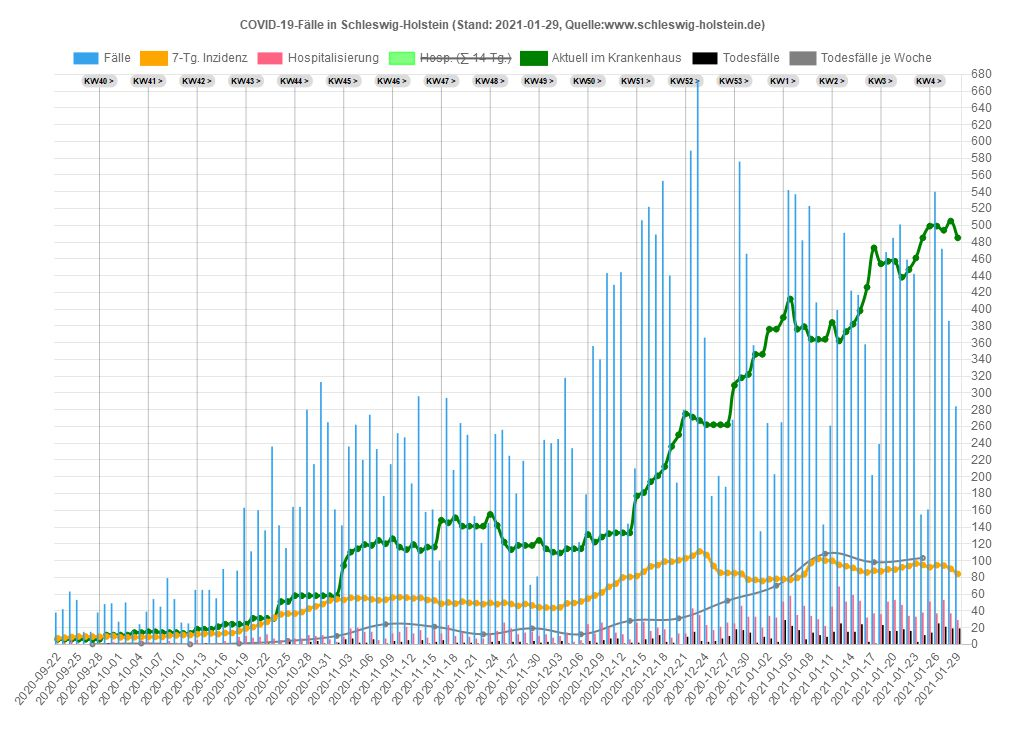
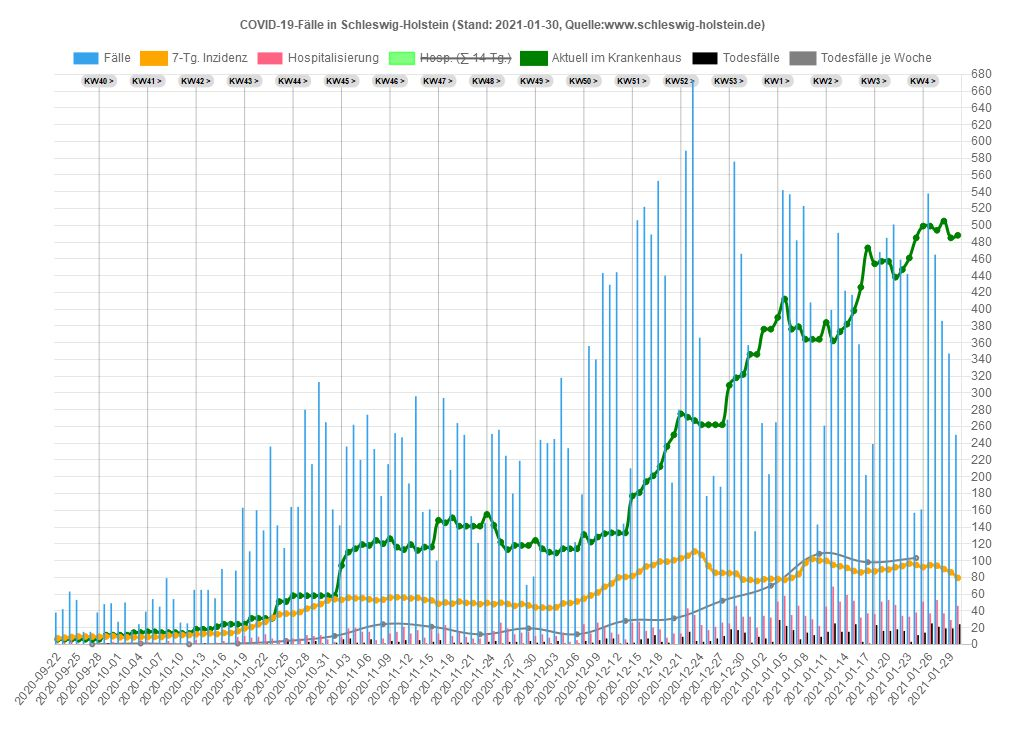
30.01.2021 22:00:57,57

Changed region(s): [[0.0625, 0.0931, 0.9375, 0.9622], [0.125, 0.0931, 0.1562, 0.1242]]

diff --git a/sh/Data_SH.js b/sh/Data_SH.js
@@ -1,20 +1,20 @@
 var chdata={
-labels: ["2020-09-22","2020-09-23","2020-09-24","2020-09-25","2020-09-26","2020-09-27","2020-09-28","2020-09-29","2020-09-30","2020-10-01","2020-10-02","2020-10-03","2020-10-04","2020-10-05","2020-10-06","2020-10-07","2020-10-08","2020-10-09","2020-10-10","2020-10-11","2020-10-12","2020-10-13","2020-10-14","2020-10-15","2020-10-16","2020-10-17","2020-10-18","2020-10-19","2020-10-20","2020-10-21","2020-10-22","2020-10-23","2020-10-24","2020-10-25","2020-10-26","2020-10-27","2020-10-28","2020-10-29","2020-10-30","2020-10-31","2020-11-01","2020-11-02","2020-11-03","2020-11-04","2020-11-05","2020-11-06","2020-11-07","2020-11-08","2020-11-09","2020-11-10","2020-11-11","2020-11-12","2020-11-13","2020-11-14","2020-11-15","2020-11-16","2020-11-17","2020-11-18","2020-11-19","2020-11-20","2020-11-21","2020-11-22","2020-11-23","2020-11-24","2020-11-25","2020-11-26","2020-11-27","2020-11-28","2020-11-29","2020-11-30","2020-12-01","2020-12-02","2020-12-03","2020-12-04","2020-12-05","2020-12-06","2020-12-07","2020-12-08","2020-12-09","2020-12-10","2020-12-11","2020-12-12","2020-12-13","2020-12-14","2020-12-15","2020-12-16","2020-12-17","2020-12-18","2020-12-19","2020-12-20","2020-12-21","2020-12-22","2020-12-23","2020-12-24","2020-12-25","2020-12-26","2020-12-27","2020-12-28","2020-12-29","2020-12-30","2020-12-31","2021-01-01","2021-01-02","2021-01-03","2021-01-04","2021-01-05","2021-01-06","2021-01-07","2021-01-08","2021-01-09","2021-01-10","2021-01-11","2021-01-12","2021-01-13","2021-01-14","2021-01-15","2021-01-16","2021-01-17","2021-01-18","2021-01-19","2021-01-20","2021-01-21","2021-01-22","2021-01-23","2021-01-24","2021-01-25","2021-01-26","2021-01-27","2021-01-28","2021-01-29"],
+labels: ["2020-09-22","2020-09-23","2020-09-24","2020-09-25","2020-09-26","2020-09-27","2020-09-28","2020-09-29","2020-09-30","2020-10-01","2020-10-02","2020-10-03","2020-10-04","2020-10-05","2020-10-06","2020-10-07","2020-10-08","2020-10-09","2020-10-10","2020-10-11","2020-10-12","2020-10-13","2020-10-14","2020-10-15","2020-10-16","2020-10-17","2020-10-18","2020-10-19","2020-10-20","2020-10-21","2020-10-22","2020-10-23","2020-10-24","2020-10-25","2020-10-26","2020-10-27","2020-10-28","2020-10-29","2020-10-30","2020-10-31","2020-11-01","2020-11-02","2020-11-03","2020-11-04","2020-11-05","2020-11-06","2020-11-07","2020-11-08","2020-11-09","2020-11-10","2020-11-11","2020-11-12","2020-11-13","2020-11-14","2020-11-15","2020-11-16","2020-11-17","2020-11-18","2020-11-19","2020-11-20","2020-11-21","2020-11-22","2020-11-23","2020-11-24","2020-11-25","2020-11-26","2020-11-27","2020-11-28","2020-11-29","2020-11-30","2020-12-01","2020-12-02","2020-12-03","2020-12-04","2020-12-05","2020-12-06","2020-12-07","2020-12-08","2020-12-09","2020-12-10","2020-12-11","2020-12-12","2020-12-13","2020-12-14","2020-12-15","2020-12-16","2020-12-17","2020-12-18","2020-12-19","2020-12-20","2020-12-21","2020-12-22","2020-12-23","2020-12-24","2020-12-25","2020-12-26","2020-12-27","2020-12-28","2020-12-29","2020-12-30","2020-12-31","2021-01-01","2021-01-02","2021-01-03","2021-01-04","2021-01-05","2021-01-06","2021-01-07","2021-01-08","2021-01-09","2021-01-10","2021-01-11","2021-01-12","2021-01-13","2021-01-14","2021-01-15","2021-01-16","2021-01-17","2021-01-18","2021-01-19","2021-01-20","2021-01-21","2021-01-22","2021-01-23","2021-01-24","2021-01-25","2021-01-26","2021-01-27","2021-01-28","2021-01-29","2021-01-30"],
 datasets: [
 {label: 'Fälle',
 type: 'bar',
 backgroundColor: window.chartColors.blue,
-data: [38,42,63,53,15,15,38,48,49,27,50,16,24,39,54,45,79,54,26,25,65,65,65,55,90,26,88,163,111,160,136,236,142,115,164,164,280,215,313,265,161,142,236,262,220,274,233,177,215,252,247,192,296,158,161,100,294,208,264,250,153,121,145,251,256,225,180,219,71,81,244,240,245,318,234,122,179,356,340,443,429,444,144,210,506,522,489,553,440,193,280,589,673,366,177,201,188,268,576,466,357,135,264,203,265,542,537,482,523,408,143,261,399,491,422,417,358,202,239,468,485,501,459,442,155,161,540,472,386,284]},
+data: [38,42,63,53,15,15,38,48,49,27,50,16,24,39,54,45,79,54,26,25,65,65,65,55,90,26,88,163,111,160,136,236,142,115,164,164,280,215,313,265,161,142,236,262,220,274,233,177,215,252,247,192,296,158,161,100,294,208,264,250,153,121,145,251,256,225,180,219,71,81,244,240,245,318,234,122,179,356,340,443,429,444,144,210,506,522,489,553,440,193,280,589,673,366,177,201,188,268,576,466,357,135,264,203,265,542,537,482,523,408,143,261,399,491,422,417,358,202,239,468,485,501,459,442,157,161,538,465,386,347,250]},
 {label: '7-Tg. Inzidenz',
 type: 'line',
 fill: false,
 pointBackgroundColor: 'orange',
 borderColor: 'orange',
-data: [7.2,7.9,8.7,9.4,9.3,9.2,9.1,9.4,9.7,8.4,8.3,8.4,8.7,8.7,8.9,8.8,10.6,10.7,11.1,11.1,12.0,12.4,13.1,12.2,13.5,13.5,15.6,19.0,20.6,23.9,26.7,31.7,35.7,36.6,36.6,38.5,42.6,45.3,48.0,52.2,53.8,53.0,55.5,54.9,55.1,53.7,52.6,53.2,55.7,56.2,55.7,54.8,55.5,52.9,52.4,48.4,49.9,48.5,51.0,49.4,49.2,47.9,49.4,47.9,49.6,48.2,45.8,48.1,46.4,44.2,43.9,43.4,44.1,48.8,49.3,51.1,54.5,58.3,61.8,68.6,72.4,79.7,80.4,81.5,86.6,92.9,94.5,98.8,98.6,100.3,102.7,105.6,110.8,106.6,93.6,85.4,85.2,84.8,84.3,77.2,76.9,75.5,77.6,78.1,78.0,76.9,79.3,83.6,97.0,101.9,99.9,99.7,94.8,93.2,91.2,87.5,85.8,87.8,87.1,89.4,89.2,91.9,93.4,96.3,94.7,92.0,94.5,94.0,90.1,84.0]},
+data: [7.2,7.9,8.7,9.4,9.3,9.2,9.1,9.4,9.7,8.4,8.3,8.4,8.7,8.7,8.9,8.8,10.6,10.7,11.1,11.1,12.0,12.4,13.1,12.2,13.5,13.5,15.6,19.0,20.6,23.9,26.7,31.7,35.7,36.6,36.6,38.5,42.6,45.3,48.0,52.2,53.8,53.0,55.5,54.9,55.1,53.7,52.6,53.2,55.7,56.2,55.7,54.8,55.5,52.9,52.4,48.4,49.9,48.5,51.0,49.4,49.2,47.9,49.4,47.9,49.6,48.2,45.8,48.1,46.4,44.2,43.9,43.4,44.1,48.8,49.3,51.1,54.5,58.3,61.8,68.6,72.4,79.7,80.4,81.5,86.6,92.9,94.5,98.8,98.6,100.3,102.7,105.6,110.8,106.6,93.6,85.4,85.2,84.8,84.3,77.2,76.9,75.5,77.6,78.1,78.0,76.9,79.3,83.6,97.0,101.9,99.9,99.7,94.8,93.2,91.2,87.5,85.8,87.8,87.1,89.4,89.2,91.9,93.4,96.3,94.7,92.1,94.5,93.8,89.8,86.0,79.3]},
 {label: 'Hospitalisierung',
 type: 'bar',
 backgroundColor: window.chartColors.red,
-data: [1,2,7,1,0,0,2,1,3,1,1,0,4,3,1,1,4,2,0,3,5,1,1,2,4,0,9,10,8,9,12,7,5,6,7,7,11,10,11,6,3,9,19,20,15,15,5,7,13,15,21,13,17,8,17,13,23,10,15,9,7,7,13,16,26,19,12,14,15,10,12,8,10,14,3,5,24,13,26,20,14,12,6,26,27,16,20,18,8,13,13,43,35,23,17,21,26,25,46,33,33,20,34,32,51,58,35,46,34,30,22,45,69,51,59,52,32,37,36,51,53,47,34,33,38,51,37,53,37,29]},
+data: [1,2,7,1,0,0,2,1,3,1,1,0,4,3,1,1,4,2,0,3,5,1,1,2,4,0,9,10,8,9,12,7,5,6,7,7,11,10,11,6,3,9,19,20,15,15,5,7,13,15,21,13,17,8,17,13,23,10,15,9,7,7,13,16,26,19,12,14,15,10,12,8,10,14,3,5,24,13,26,20,14,12,6,26,27,16,20,18,8,13,13,43,35,23,17,21,26,25,46,33,33,20,34,32,51,58,35,46,34,30,22,45,69,51,59,52,32,37,36,51,53,47,34,33,38,51,37,53,37,29,46]},
 {label: 'Hosp. (∑ 14-Tg.)',
 type: 'line',
 fill: false,
@@ -22,17 +22,17 @@ hidden: true,
 borderColor: 'rgba(0,255,0,0.5)',
 borderWidth: 1.5,
 pointRadius: 0,
-data: [12,12,20,22,22,22,22,23,23,21,22,21,24,26,26,25,22,23,23,26,29,29,27,28,31,31,36,43,50,58,66,71,76,79,81,87,97,105,112,118,112,111,122,133,136,144,144,145,151,159,169,172,178,180,194,198,202,192,192,186,188,188,188,189,194,200,195,201,199,196,185,183,178,183,179,177,188,185,185,186,188,186,177,193,208,216,226,230,235,243,232,262,271,274,277,286,306,305,324,341,354,356,382,401,439,454,454,477,494,503,499,519,542,560,586,618,616,621,606,599,617,618,618,621,637,643,611,613,591,568]},
+data: [12,12,20,22,22,22,22,23,23,21,22,21,24,26,26,25,22,23,23,26,29,29,27,28,31,31,36,43,50,58,66,71,76,79,81,87,97,105,112,118,112,111,122,133,136,144,144,145,151,159,169,172,178,180,194,198,202,192,192,186,188,188,188,189,194,200,195,201,199,196,185,183,178,183,179,177,188,185,185,186,188,186,177,193,208,216,226,230,235,243,232,262,271,274,277,286,306,305,324,341,354,356,382,401,439,454,454,477,494,503,499,519,542,560,586,618,616,621,606,599,617,618,618,621,637,643,611,613,591,568,582]},
 {label: 'Aktuell im Krankenhaus',
 type: 'line',
 fill: false,
 pointBackgroundColor: 'green',
 borderColor: 'green',
-data: [6,6,6,6,6,6,6,11,11,11,11,14,14,15,15,14,14,14,13,13,18,18,18,21,24,24,24,24,31,31,31,31,51,51,58,58,58,58,58,58,58,94,110,114,119,118,124,120,126,116,113,119,112,116,116,148,145,151,141,141,141,141,155,142,122,113,118,118,118,124,114,110,109,114,114,114,131,122,128,132,133,133,133,177,181,194,201,212,236,250,275,271,267,262,262,262,262,309,318,322,346,346,376,376,390,412,376,379,364,364,364,384,362,373,382,398,426,473,454,457,457,438,447,461,485,499,499,494,505,485]},
+data: [6,6,6,6,6,6,6,11,11,11,11,14,14,15,15,14,14,14,13,13,18,18,18,21,24,24,24,24,31,31,31,31,51,51,58,58,58,58,58,58,58,94,110,114,119,118,124,120,126,116,113,119,112,116,116,148,145,151,141,141,141,141,155,142,122,113,118,118,118,124,114,110,109,114,114,114,131,122,128,132,133,133,133,177,181,194,201,212,236,250,275,271,267,262,262,262,262,309,318,322,346,346,376,376,390,412,376,379,364,364,364,384,362,373,382,398,426,473,454,457,457,438,447,461,485,499,499,494,505,485,488]},
 {label: 'Todesfälle',
 type: 'bar',
 backgroundColor: 'black',
-data: [0,0,0,0,0,0,0,1,0,0,0,0,0,0,0,0,0,0,0,0,0,1,0,0,0,0,0,0,0,0,1,0,0,3,0,0,3,4,1,0,2,6,7,2,2,6,0,1,4,3,5,0,5,1,3,5,0,2,2,2,1,0,3,4,1,3,3,1,4,2,3,1,4,1,0,1,4,2,5,7,7,1,2,2,6,7,11,3,2,0,9,15,4,3,4,7,10,18,17,14,2,9,7,3,29,22,17,6,14,11,9,15,25,15,15,24,3,1,23,16,16,18,16,3,11,14,25,21,19,19]},
+data: [0,0,0,0,0,0,0,1,0,0,0,0,0,0,0,0,0,0,0,0,0,1,0,0,0,0,0,0,0,0,1,0,0,3,0,0,3,4,1,0,2,6,7,2,2,6,0,1,4,3,5,0,5,1,3,5,0,2,2,2,1,0,3,4,1,3,3,1,4,2,3,1,4,1,0,1,4,2,5,7,7,1,2,2,6,7,11,3,2,0,9,15,4,3,4,7,10,18,17,14,2,9,7,3,29,22,17,6,14,11,9,15,25,15,15,24,3,1,23,16,16,18,16,3,11,14,25,21,19,19,24]},
 {label: 'Todesfälle je Woche',
 type: 'line',
 fill: false,
@@ -41,6 +41,6 @@ borderColor: 'rgba(128,128,128,1)',
 borderWidth: 2,
 pointRadius: 2,
 yAxisID: 'first-y-axis',
-data: [,,,,,0,,,,,,,1,,,,,,,0,,,,,,,1,,,,,,,4,,,,,,,10,,,,,,,24,,,,,,,21,,,,,,,12,,,,,,,19,,,,,,,12,,,,,,,28,,,,,,,31,,,,,,,52,,,,,,,70,,,,,,,108,,,,,,,98,,,,,,,103,,,,,]},
+data: [,,,,,0,,,,,,,1,,,,,,,0,,,,,,,1,,,,,,,4,,,,,,,10,,,,,,,24,,,,,,,21,,,,,,,12,,,,,,,19,,,,,,,12,,,,,,,28,,,,,,,31,,,,,,,52,,,,,,,70,,,,,,,108,,,,,,,98,,,,,,,103,,,,,,]},
 ]};
 

diff --git a/sh/Kreis_PI.js b/sh/Kreis_PI.js
@@ -1,18 +1,18 @@
 var chdata={
-labels: ["2020-09-22","2020-09-23","2020-09-24","2020-09-25","2020-09-26","2020-09-27","2020-09-28","2020-09-29","2020-09-30","2020-10-01","2020-10-02","2020-10-03","2020-10-04","2020-10-05","2020-10-06","2020-10-07","2020-10-08","2020-10-09","2020-10-10","2020-10-11","2020-10-12","2020-10-13","2020-10-14","2020-10-15","2020-10-16","2020-10-17","2020-10-18","2020-10-19","2020-10-20","2020-10-21","2020-10-22","2020-10-23","2020-10-24","2020-10-25","2020-10-26","2020-10-27","2020-10-28","2020-10-29","2020-10-30","2020-10-31","2020-11-01","2020-11-02","2020-11-03","2020-11-04","2020-11-05","2020-11-06","2020-11-07","2020-11-08","2020-11-09","2020-11-10","2020-11-11","2020-11-12","2020-11-13","2020-11-14","2020-11-15","2020-11-16","2020-11-17","2020-11-18","2020-11-19","2020-11-20","2020-11-21","2020-11-22","2020-11-23","2020-11-24","2020-11-25","2020-11-26","2020-11-27","2020-11-28","2020-11-29","2020-11-30","2020-12-01","2020-12-02","2020-12-03","2020-12-04","2020-12-05","2020-12-06","2020-12-07","2020-12-08","2020-12-09","2020-12-10","2020-12-11","2020-12-12","2020-12-13","2020-12-14","2020-12-15","2020-12-16","2020-12-17","2020-12-18","2020-12-19","2020-12-20","2020-12-21","2020-12-22","2020-12-23","2020-12-24","2020-12-25","2020-12-26","2020-12-27","2020-12-28","2020-12-29","2020-12-30","2020-12-31","2021-01-01","2021-01-02","2021-01-03","2021-01-04","2021-01-05","2021-01-06","2021-01-07","2021-01-08","2021-01-09","2021-01-10","2021-01-11","2021-01-12","2021-01-13","2021-01-14","2021-01-15","2021-01-16","2021-01-17","2021-01-18","2021-01-19","2021-01-20","2021-01-21","2021-01-22","2021-01-23","2021-01-24","2021-01-25","2021-01-26","2021-01-27","2021-01-28","2021-01-29"],
+labels: ["2020-09-22","2020-09-23","2020-09-24","2020-09-25","2020-09-26","2020-09-27","2020-09-28","2020-09-29","2020-09-30","2020-10-01","2020-10-02","2020-10-03","2020-10-04","2020-10-05","2020-10-06","2020-10-07","2020-10-08","2020-10-09","2020-10-10","2020-10-11","2020-10-12","2020-10-13","2020-10-14","2020-10-15","2020-10-16","2020-10-17","2020-10-18","2020-10-19","2020-10-20","2020-10-21","2020-10-22","2020-10-23","2020-10-24","2020-10-25","2020-10-26","2020-10-27","2020-10-28","2020-10-29","2020-10-30","2020-10-31","2020-11-01","2020-11-02","2020-11-03","2020-11-04","2020-11-05","2020-11-06","2020-11-07","2020-11-08","2020-11-09","2020-11-10","2020-11-11","2020-11-12","2020-11-13","2020-11-14","2020-11-15","2020-11-16","2020-11-17","2020-11-18","2020-11-19","2020-11-20","2020-11-21","2020-11-22","2020-11-23","2020-11-24","2020-11-25","2020-11-26","2020-11-27","2020-11-28","2020-11-29","2020-11-30","2020-12-01","2020-12-02","2020-12-03","2020-12-04","2020-12-05","2020-12-06","2020-12-07","2020-12-08","2020-12-09","2020-12-10","2020-12-11","2020-12-12","2020-12-13","2020-12-14","2020-12-15","2020-12-16","2020-12-17","2020-12-18","2020-12-19","2020-12-20","2020-12-21","2020-12-22","2020-12-23","2020-12-24","2020-12-25","2020-12-26","2020-12-27","2020-12-28","2020-12-29","2020-12-30","2020-12-31","2021-01-01","2021-01-02","2021-01-03","2021-01-04","2021-01-05","2021-01-06","2021-01-07","2021-01-08","2021-01-09","2021-01-10","2021-01-11","2021-01-12","2021-01-13","2021-01-14","2021-01-15","2021-01-16","2021-01-17","2021-01-18","2021-01-19","2021-01-20","2021-01-21","2021-01-22","2021-01-23","2021-01-24","2021-01-25","2021-01-26","2021-01-27","2021-01-28","2021-01-29","2021-01-30"],
 datasets: [
 {label: 'Fälle',
 type: 'bar',
 backgroundColor: window.chartColors.blue,
 yAxisID: 'first-y-axis',
-data: [7,7,2,17,0,9,3,8,10,6,6,7,4,2,7,6,7,4,8,3,11,12,17,9,3,0,36,10,12,34,0,73,34,8,10,0,27,36,60,67,0,32,26,49,42,43,45,24,7,36,47,34,28,43,18,0,51,51,49,47,42,31,55,50,68,43,0,73,18,32,47,59,40,42,0,12,34,75,37,98,53,92,19,17,79,62,92,53,113,32,41,100,121,58,56,49,20,47,118,116,82,15,36,25,28,104,77,62,132,69,38,32,93,133,71,71,70,38,50,102,97,141,106,110,28,44,109,74,61,103]},
+data: [7,7,2,17,0,9,3,8,10,6,6,7,4,2,7,6,7,4,8,3,11,12,17,9,3,0,36,10,12,34,0,73,34,8,10,0,27,36,60,67,0,32,26,49,42,43,45,24,7,36,47,34,28,43,18,0,51,51,49,47,42,31,55,50,68,43,0,73,18,32,47,59,40,42,0,12,34,75,37,98,53,92,19,17,79,62,92,53,113,32,41,100,121,58,56,49,20,47,118,116,82,15,36,25,28,104,77,62,132,69,38,32,93,133,71,71,70,38,50,102,97,141,106,110,29,44,109,74,62,104,64]},
 {label: '7-Tg. Inzidenz',
 type: 'line',
 fill: false,
 pointBackgroundColor: 'orange',
 borderColor: 'orange',
 yAxisID: 'first-y-axis',
-data: [10.4,12.0,11.4,14.6,12.0213981,14.2,14.2,14.6,15.5,16.8,13.3,15.5,13.9,13.6,13.3,12.0,12.3,11.7,12.0,11.7,14.6,16.1,19.6,20.2,19.9,17.399392,27.8,27.5,27.5,32.9,30.0534952,52.2,63.0,54.1,54.1,50.3000604,48.1,59.5,55.4,65.8,63.2705163,70.2,78.5,85.4,87.3,81.9,75.0,82.6,74.7,77.8,77.2,74.7,69.9,69.3,67.4,65.1686317,69.9,71.2,75.9,81.9,81.6,85.7,103.1,102.8,108.2,106.3,91.425896,101.2,97.1,89.8,88.9,86.0,85.1,98.4,75.2919143,73.4,74.0,82.9,75.9,94.3,97.8,126.9,129.1,123.7,125.0,132.9,131.0,131.0,137.6,141.7,149.3,156.0,174.6,163.9,164.8,144.6,140.8,142.7,148.4,146.8,154.4,141.4,137.3,138.9,132.9,128.4,116.1,109.8,146.8,157.2,161.3,162.6,159.1,176.8,179.7,160.4,160.7,160.7,166.4,169.2,157.9,180.0,191.1,203.7,200.6,198.7,200.9,193.6,168.3,167.4]},
+data: [10.4,12.0,11.4,14.6,12.0213981,14.2,14.2,14.6,15.5,16.8,13.3,15.5,13.9,13.6,13.3,12.0,12.3,11.7,12.0,11.7,14.6,16.1,19.6,20.2,19.9,17.399392,27.8,27.5,27.5,32.9,30.0534952,52.2,63.0,54.1,54.1,50.3000604,48.1,59.5,55.4,65.8,63.2705163,70.2,78.5,85.4,87.3,81.9,75.0,82.6,74.7,77.8,77.2,74.7,69.9,69.3,67.4,65.1686317,69.9,71.2,75.9,81.9,81.6,85.7,103.1,102.8,108.2,106.3,91.425896,101.2,97.1,89.8,88.9,86.0,85.1,98.4,75.2919143,73.4,74.0,82.9,75.9,94.3,97.8,126.9,129.1,123.7,125.0,132.9,131.0,131.0,137.6,141.7,149.3,156.0,174.6,163.9,164.8,144.6,140.8,142.7,148.4,146.8,154.4,141.4,137.3,138.9,132.9,128.4,116.1,109.8,146.8,157.2,161.3,162.6,159.1,176.8,179.7,160.4,160.7,160.7,166.4,169.2,157.9,180.0,191.1,203.7,200.9,199.0,201.2,193.9,168.9,168.3,153.7]},
 {label: '7-Tg. Inz. veröff.',
 type: 'line',
 fill: false,
@@ -21,12 +21,12 @@ borderColor: 'rgba(255,165,0,0.5)',
 borderWidth: 2,
 pointRadius: 2,
 yAxisID: 'first-y-axis',
-data: [,,,,,,,,,,,,,,,,,,,,,,,,,,,,,,,,,,,,,,,,,,,,,,,,,,,,,,,,,,,,,,,,,,,,,,,,,,,86.0,87.9,97.8,89.8,107.6,109.8,127.5,129.7,124.3,125.0,113.3,129.4,112.6,83.5,77.5,72.1,155.6,169.6,164.8,168.0,149.3,144.3,143.9,135.7,146.2,152.2,140.8,136.7,137.3,132.9,128.4,115.2,107.6,142.0,157.2,161.3,152.5,159.1,177.2,179.4,160.7,159.4,162.3,164.8,168.0,153.4,178.7,188.9,202.1,199.0,183.2,194.2,191.1,168.3,167.4]},
+data: [,,,,,,,,,,,,,,,,,,,,,,,,,,,,,,,,,,,,,,,,,,,,,,,,,,,,,,,,,,,,,,,,,,,,,,,,,,,86.0,87.9,97.8,89.8,107.6,109.8,127.5,129.7,124.3,125.0,113.3,129.4,112.6,83.5,77.5,72.1,155.6,169.6,164.8,168.0,149.3,144.3,143.9,135.7,146.2,152.2,140.8,136.7,137.3,132.9,128.4,115.2,107.6,142.0,157.2,161.3,152.5,159.1,177.2,179.4,160.7,159.4,162.3,164.8,168.0,153.4,178.7,188.9,202.1,199.0,183.2,194.2,191.1,168.3,167.4,153.7]},
 {label: 'Hospitalisierung',
 type: 'bar',
 backgroundColor: window.chartColors.red,
 yAxisID: 'first-y-axis',
-data: [0,0,0,0,0,0,1,1,0,0,0,0,1,1,1,-1,2,0,0,0,0,0,0,0,0,0,3,2,0,1,0,5,0,1,1,0,1,2,5,2,0,2,1,2,5,3,0,0,3,4,2,3,3,1,1,0,6,1,2,2,2,0,1,2,6,4,0,6,4,4,3,3,2,5,0,2,4,1,6,7,4,1,0,9,5,0,7,0,0,0,0,25,8,6,2,3,3,5,15,9,4,6,10,3,4,8,13,13,6,3,4,0,26,12,8,7,6,2,2,13,7,11,12,2,8,0,16,12,10,7]},
+data: [0,0,0,0,0,0,1,1,0,0,0,0,1,1,1,-1,2,0,0,0,0,0,0,0,0,0,3,2,0,1,0,5,0,1,1,0,1,2,5,2,0,2,1,2,5,3,0,0,3,4,2,3,3,1,1,0,6,1,2,2,2,0,1,2,6,4,0,6,4,4,3,3,2,5,0,2,4,1,6,7,4,1,0,9,5,0,7,0,0,0,0,25,8,6,2,3,3,5,15,9,4,6,10,3,4,8,13,13,6,3,4,0,26,12,8,7,6,2,2,13,7,11,12,2,8,0,16,12,10,7,5]},
 {label: 'Hospitalisierung (∑ 14-Tg.)',
 type: 'line',
 pointRadius: 0,
@@ -34,12 +34,12 @@ fill: false,
 borderColor: 'rgba(0,128,0,0.5)',
 borderWidth: 2,
 yAxisID: 'first-y-axis',
-data: [2,2,2,2,2,2,3,4,3,2,2,2,3,4,5,4,6,6,6,6,5,4,4,4,4,4,6,7,6,8,6,11,11,12,13,13,14,16,21,23,20,20,21,22,27,25,25,24,26,30,31,32,30,29,30,28,33,32,29,28,30,30,28,26,30,31,28,33,36,40,37,39,39,42,40,42,45,44,44,47,51,46,42,47,49,46,51,46,46,44,40,64,66,65,63,65,68,64,74,83,80,86,96,99,103,86,91,98,102,102,103,98,109,112,116,117,113,112,110,115,109,107,113,112,116,116,106,106,108,108]},
+data: [2,2,2,2,2,2,3,4,3,2,2,2,3,4,5,4,6,6,6,6,5,4,4,4,4,4,6,7,6,8,6,11,11,12,13,13,14,16,21,23,20,20,21,22,27,25,25,24,26,30,31,32,30,29,30,28,33,32,29,28,30,30,28,26,30,31,28,33,36,40,37,39,39,42,40,42,45,44,44,47,51,46,42,47,49,46,51,46,46,44,40,64,66,65,63,65,68,64,74,83,80,86,96,99,103,86,91,98,102,102,103,98,109,112,116,117,113,112,110,115,109,107,113,112,116,116,106,106,108,108,107]},
 {label: 'Todesfälle',
 type: 'bar',
 backgroundColor: 'black',
 yAxisID: 'first-y-axis',
-data: [0,0,0,0,0,0,0,0,0,0,0,0,0,0,0,0,0,0,0,0,0,0,0,0,0,0,0,0,0,0,0,0,0,0,0,0,1,0,0,0,0,0,0,0,0,0,0,0,0,1,0,0,0,0,0,0,0,0,0,0,0,0,0,0,0,1,0,1,0,2,0,0,2,1,0,0,0,1,0,2,1,0,0,0,1,0,7,0,0,0,0,4,0,0,2,0,2,3,4,3,0,6,0,2,10,4,5,1,2,5,1,0,7,2,5,6,1,0,5,2,1,5,7,1,3,0,10,5,3,3]},
+data: [0,0,0,0,0,0,0,0,0,0,0,0,0,0,0,0,0,0,0,0,0,0,0,0,0,0,0,0,0,0,0,0,0,0,0,0,1,0,0,0,0,0,0,0,0,0,0,0,0,1,0,0,0,0,0,0,0,0,0,0,0,0,0,0,0,1,0,1,0,2,0,0,2,1,0,0,0,1,0,2,1,0,0,0,1,0,7,0,0,0,0,4,0,0,2,0,2,3,4,3,0,6,0,2,10,4,5,1,2,5,1,0,7,2,5,6,1,0,5,2,1,5,7,1,3,0,10,5,3,3,8]},
 {label: 'Todesfälle je Woche',
 type: 'line',
 fill: false,
@@ -48,6 +48,6 @@ borderColor: 'rgba(128,128,128,1)',
 borderWidth: 2,
 pointRadius: 2,
 yAxisID: 'first-y-axis',
-data: [,,,,,0,,,,,,,0,,,,,,,0,,,,,,,0,,,,,,,0,,,,,,,1,,,,,,,0,,,,,,,1,,,,,,,0,,,,,,,2,,,,,,,5,,,,,,,4,,,,,,,8,,,,,,,8,,,,,,,18,,,,,,,28,,,,,,,21,,,,,,,24,,,,,]},
+data: [,,,,,0,,,,,,,0,,,,,,,0,,,,,,,0,,,,,,,0,,,,,,,1,,,,,,,0,,,,,,,1,,,,,,,0,,,,,,,2,,,,,,,5,,,,,,,4,,,,,,,8,,,,,,,8,,,,,,,18,,,,,,,28,,,,,,,21,,,,,,,24,,,,,,]},
 ]};
 

diff --git a/sh/Data_SH_Alter.js b/sh/Data_SH_Alter.js
@@ -140,7 +140,8 @@ var chdata={
 				{x: '2021-01-26', y: 'Alle', v: 91.2605772, casesum: 2650},{x: '2021-01-26', y: '00-09', v: 46.7431697, casesum: 120},{x: '2021-01-26', y: '10-19', v: 72.4619303, casesum: 200},{x: '2021-01-26', y: '20-29', v: 118.139029, casesum: 378},{x: '2021-01-26', y: '30-39', v: 101.46122, casesum: 341},{x: '2021-01-26', y: '40-49', v: 97.0287086, casesum: 342},{x: '2021-01-26', y: '50-59', v: 81.5500978, casesum: 404},{x: '2021-01-26', y: '60-69', v: 58.8672187, casesum: 214},{x: '2021-01-26', y: '70-79', v: 66.569572, casesum: 197},{x: '2021-01-26', y: '80-89', v: 185.079567, casesum: 331},{x: '2021-01-26', y: '90+', v: 426.846197, casesum: 123},
 				{x: '2021-01-27', y: 'Alle', v: 92.7414092, casesum: 2693},{x: '2021-01-27', y: '00-09', v: 49.4698546, casesum: 127},{x: '2021-01-27', y: '10-19', v: 75.3604075, casesum: 208},{x: '2021-01-27', y: '20-29', v: 110.950675, casesum: 355},{x: '2021-01-27', y: '30-39', v: 102.353841, casesum: 344},{x: '2021-01-27', y: '40-49', v: 96.4612892, casesum: 340},{x: '2021-01-27', y: '50-59', v: 80.1371011, casesum: 397},{x: '2021-01-27', y: '60-69', v: 62.1681842, casesum: 226},{x: '2021-01-27', y: '70-79', v: 73.3279041, casesum: 217},{x: '2021-01-27', y: '80-89', v: 197.380928, casesum: 353},{x: '2021-01-27', y: '90+', v: 437.257079, casesum: 126},
 				{x: '2021-01-28', y: 'Alle', v: 87.9889716, casesum: 2555},{x: '2021-01-28', y: '00-09', v: 50.6384338, casesum: 130},{x: '2021-01-28', y: '10-19', v: 72.4619303, casesum: 200},{x: '2021-01-28', y: '20-29', v: 106.262619, casesum: 340},{x: '2021-01-28', y: '30-39', v: 90.4522314, casesum: 304},{x: '2021-01-28', y: '40-49', v: 87.6662893, casesum: 309},{x: '2021-01-28', y: '50-59', v: 77.5129642, casesum: 384},{x: '2021-01-28', y: '60-69', v: 59.4173796, casesum: 216},{x: '2021-01-28', y: '70-79', v: 69.6108214, casesum: 206},{x: '2021-01-28', y: '80-89', v: 186.757026, casesum: 334},{x: '2021-01-28', y: '90+', v: 458.078845, casesum: 132},
-				{x: '2021-01-29', y: 'Alle', v: 84.1319208, casesum: 2443},{x: '2021-01-29', y: '00-09', v: 45.9641168, casesum: 118},{x: '2021-01-29', y: '10-19', v: 71.0126917, casesum: 196},{x: '2021-01-29', y: '20-29', v: 100.636951, casesum: 322},{x: '2021-01-29', y: '30-39', v: 89.8571509, casesum: 302},{x: '2021-01-29', y: '40-49', v: 89.9359667, casesum: 317},{x: '2021-01-29', y: '50-59', v: 77.5129642, casesum: 384},{x: '2021-01-29', y: '60-69', v: 53.9157704, casesum: 196},{x: '2021-01-29', y: '70-79', v: 63.8662391, casesum: 189},{x: '2021-01-29', y: '80-89', v: 169.982443, casesum: 304},{x: '2021-01-29', y: '90+', v: 399.083842, casesum: 115}
+				{x: '2021-01-29', y: 'Alle', v: 84.1319208, casesum: 2443},{x: '2021-01-29', y: '00-09', v: 45.9641168, casesum: 118},{x: '2021-01-29', y: '10-19', v: 71.0126917, casesum: 196},{x: '2021-01-29', y: '20-29', v: 100.636951, casesum: 322},{x: '2021-01-29', y: '30-39', v: 89.8571509, casesum: 302},{x: '2021-01-29', y: '40-49', v: 89.9359667, casesum: 317},{x: '2021-01-29', y: '50-59', v: 77.5129642, casesum: 384},{x: '2021-01-29', y: '60-69', v: 53.9157704, casesum: 196},{x: '2021-01-29', y: '70-79', v: 63.8662391, casesum: 189},{x: '2021-01-29', y: '80-89', v: 169.982443, casesum: 304},{x: '2021-01-29', y: '90+', v: 399.083842, casesum: 115},
+				{x: '2021-01-30', y: 'Alle', v: 78.4496584, casesum: 2278},{x: '2021-01-30', y: '00-09', v: 42.8479055, casesum: 110},{x: '2021-01-30', y: '10-19', v: 63.0418794, casesum: 174},{x: '2021-01-30', y: '20-29', v: 100.324414, casesum: 321},{x: '2021-01-30', y: '30-39', v: 80.9309439, casesum: 272},{x: '2021-01-30', y: '40-49', v: 82.5595152, casesum: 291},{x: '2021-01-30', y: '50-59', v: 70.8516939, casesum: 351},{x: '2021-01-30', y: '60-69', v: 51.7151267, casesum: 188},{x: '2021-01-30', y: '70-79', v: 62.176656, casesum: 184},{x: '2021-01-30', y: '80-89', v: 155.444471, casesum: 278},{x: '2021-01-30', y: '90+', v: 378.262077, casesum: 109}
 			],
 			backgroundColor: function(context) {
 				return inzColor(context.dataset.data[context.dataIndex].v)
@@ -148,7 +149,7 @@ var chdata={
 			width: function(context) {
 				const a = context.chart.chartArea
 				if (!a) return 0
-				return (a.right - a.left) / 137.5
+				return (a.right - a.left) / 138.5
 			},
 			height: function(context) {
 				const a = context.chart.chartArea
@@ -160,7 +161,7 @@ var chdata={
 	options: {
 		legend: { display: false },
 		scales: {
-			xAxes: [{type: 'category', labels: ["2020-09-15","2020-09-16","2020-09-17","2020-09-18","2020-09-19","2020-09-20","2020-09-21","2020-09-22","2020-09-23","2020-09-24","2020-09-25","2020-09-26","2020-09-27","2020-09-28","2020-09-29","2020-09-30","2020-10-01","2020-10-02","2020-10-03","2020-10-04","2020-10-05","2020-10-06","2020-10-07","2020-10-08","2020-10-09","2020-10-10","2020-10-11","2020-10-12","2020-10-13","2020-10-14","2020-10-15","2020-10-16","2020-10-17","2020-10-18","2020-10-19","2020-10-20","2020-10-21","2020-10-22","2020-10-23","2020-10-24","2020-10-25","2020-10-26","2020-10-27","2020-10-28","2020-10-29","2020-10-30","2020-10-31","2020-11-01","2020-11-02","2020-11-03","2020-11-04","2020-11-05","2020-11-06","2020-11-07","2020-11-08","2020-11-09","2020-11-10","2020-11-11","2020-11-12","2020-11-13","2020-11-14","2020-11-15","2020-11-16","2020-11-17","2020-11-18","2020-11-19","2020-11-20","2020-11-21","2020-11-22","2020-11-23","2020-11-24","2020-11-25","2020-11-26","2020-11-27","2020-11-28","2020-11-29","2020-11-30","2020-12-01","2020-12-02","2020-12-03","2020-12-04","2020-12-05","2020-12-06","2020-12-07","2020-12-08","2020-12-09","2020-12-10","2020-12-11","2020-12-12","2020-12-13","2020-12-14","2020-12-15","2020-12-16","2020-12-17","2020-12-18","2020-12-19","2020-12-20","2020-12-21","2020-12-22","2020-12-23","2020-12-24","2020-12-25","2020-12-26","2020-12-27","2020-12-28","2020-12-29","2020-12-30","2020-12-31","2021-01-01","2021-01-02","2021-01-03","2021-01-04","2021-01-05","2021-01-06","2021-01-07","2021-01-08","2021-01-09","2021-01-10","2021-01-11","2021-01-12","2021-01-13","2021-01-14","2021-01-15","2021-01-16","2021-01-17","2021-01-18","2021-01-19","2021-01-20","2021-01-21","2021-01-22","2021-01-23","2021-01-24","2021-01-25","2021-01-26","2021-01-27","2021-01-28","2021-01-29",], ticks: {display: true},gridlines:{display:false}}],
+			xAxes: [{type: 'category', labels: ["2020-09-15","2020-09-16","2020-09-17","2020-09-18","2020-09-19","2020-09-20","2020-09-21","2020-09-22","2020-09-23","2020-09-24","2020-09-25","2020-09-26","2020-09-27","2020-09-28","2020-09-29","2020-09-30","2020-10-01","2020-10-02","2020-10-03","2020-10-04","2020-10-05","2020-10-06","2020-10-07","2020-10-08","2020-10-09","2020-10-10","2020-10-11","2020-10-12","2020-10-13","2020-10-14","2020-10-15","2020-10-16","2020-10-17","2020-10-18","2020-10-19","2020-10-20","2020-10-21","2020-10-22","2020-10-23","2020-10-24","2020-10-25","2020-10-26","2020-10-27","2020-10-28","2020-10-29","2020-10-30","2020-10-31","2020-11-01","2020-11-02","2020-11-03","2020-11-04","2020-11-05","2020-11-06","2020-11-07","2020-11-08","2020-11-09","2020-11-10","2020-11-11","2020-11-12","2020-11-13","2020-11-14","2020-11-15","2020-11-16","2020-11-17","2020-11-18","2020-11-19","2020-11-20","2020-11-21","2020-11-22","2020-11-23","2020-11-24","2020-11-25","2020-11-26","2020-11-27","2020-11-28","2020-11-29","2020-11-30","2020-12-01","2020-12-02","2020-12-03","2020-12-04","2020-12-05","2020-12-06","2020-12-07","2020-12-08","2020-12-09","2020-12-10","2020-12-11","2020-12-12","2020-12-13","2020-12-14","2020-12-15","2020-12-16","2020-12-17","2020-12-18","2020-12-19","2020-12-20","2020-12-21","2020-12-22","2020-12-23","2020-12-24","2020-12-25","2020-12-26","2020-12-27","2020-12-28","2020-12-29","2020-12-30","2020-12-31","2021-01-01","2021-01-02","2021-01-03","2021-01-04","2021-01-05","2021-01-06","2021-01-07","2021-01-08","2021-01-09","2021-01-10","2021-01-11","2021-01-12","2021-01-13","2021-01-14","2021-01-15","2021-01-16","2021-01-17","2021-01-18","2021-01-19","2021-01-20","2021-01-21","2021-01-22","2021-01-23","2021-01-24","2021-01-25","2021-01-26","2021-01-27","2021-01-28","2021-01-29","2021-01-30",], ticks: {display: true},gridlines:{display:false}}],
 			yAxes: [{type: 'category', labels: ["Alle","00-09","10-19","20-29","30-39","40-49","50-59","60-69","70-79","80-89","90+"], offset:true, ticks: {display: true},gridlines:{display:false}}],
 		},
 	}

diff --git a/sh/index_sh_alter.html b/sh/index_sh_alter.html
@@ -5,7 +5,7 @@
 <meta property="og:image" content="index_sh_alter.jpg" />
 <meta property="og:type" content="website" />
 <meta property="og:locale" content="de_DE" />
-<meta property="og:updated_time" content="2021-01-30T20:51:52+01:00" />
+<meta property="og:updated_time" content="2021-01-30T22:00:57+01:00" />
 <title>Altersverteilung der COVID-19-Fälle in Schleswig-Holstein</title>
 <link rel="stylesheet" href="../css/style.css" media="screen" type="text/css">
 <link rel="stylesheet" media="screen" href="Chart.min.css"> 

diff --git a/sh/index_pi_alter.html b/sh/index_pi_alter.html
@@ -5,7 +5,7 @@
 <meta property="og:image" content="index_pi_alter.jpg" />
 <meta property="og:type" content="website" />
 <meta property="og:locale" content="de_DE" />
-<meta property="og:updated_time" content="2021-01-30T20:51:52+01:00" />
+<meta property="og:updated_time" content="2021-01-30T22:00:57+01:00" />
 <title>Altersverteilung der COVID-19-Fälle im Kreis Pinneberg</title>
 <link rel="stylesheet" href="../css/style.css" media="screen" type="text/css">
 <link rel="stylesheet" media="screen" href="Chart.min.css"> 

diff --git a/sh/index.html b/sh/index.html
@@ -5,7 +5,7 @@
 <meta property="og:image" content="index.jpg" />
 <meta property="og:type" content="website" />
 <meta property="og:locale" content="de_DE" />
-<meta property="og:updated_time" content="2021-01-30T20:51:52+01:00" />
+<meta property="og:updated_time" content="2021-01-30T22:00:57+01:00" />
 <title>COVID-19-Fälle im Kreis Pinneberg</title>
 <link rel="stylesheet" href="../css/style.css" media="screen" type="text/css">
 <link rel="stylesheet" media="screen" href="Chart.min.css"> 
